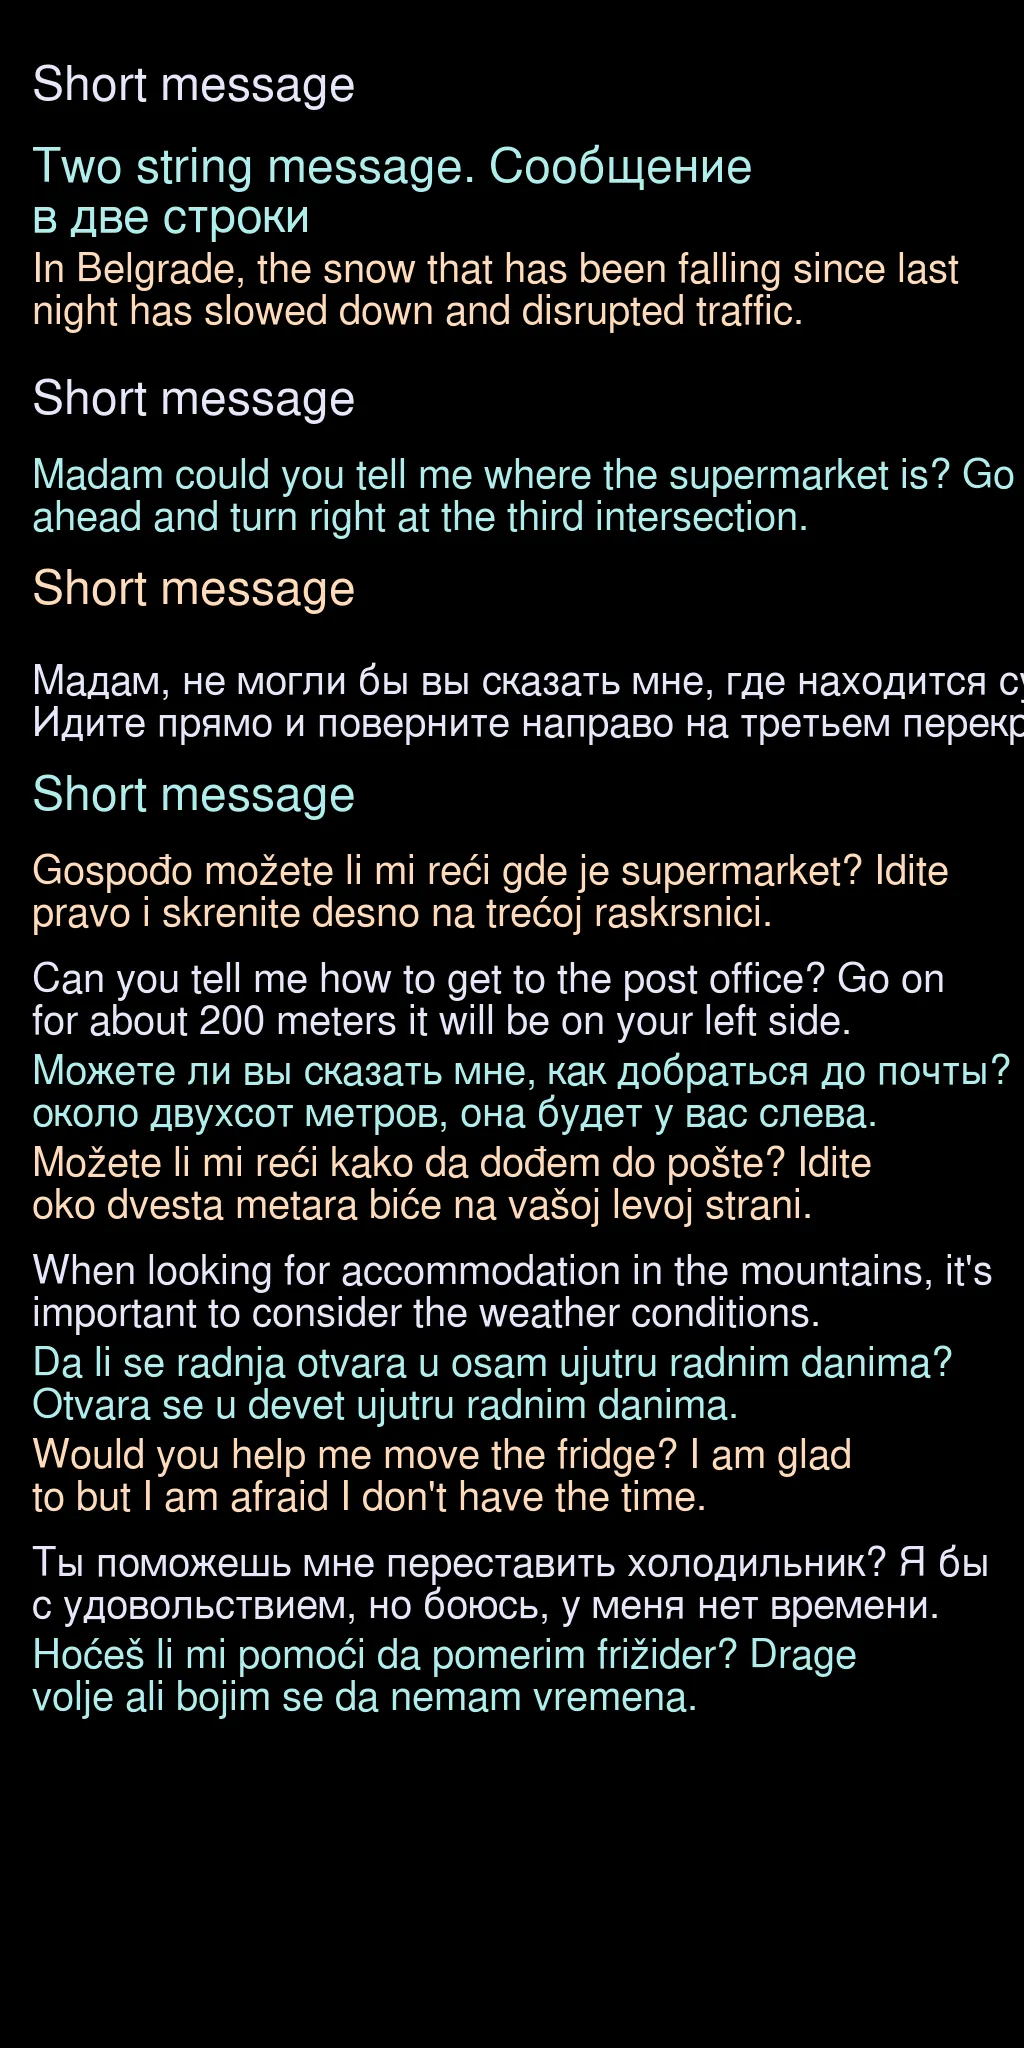
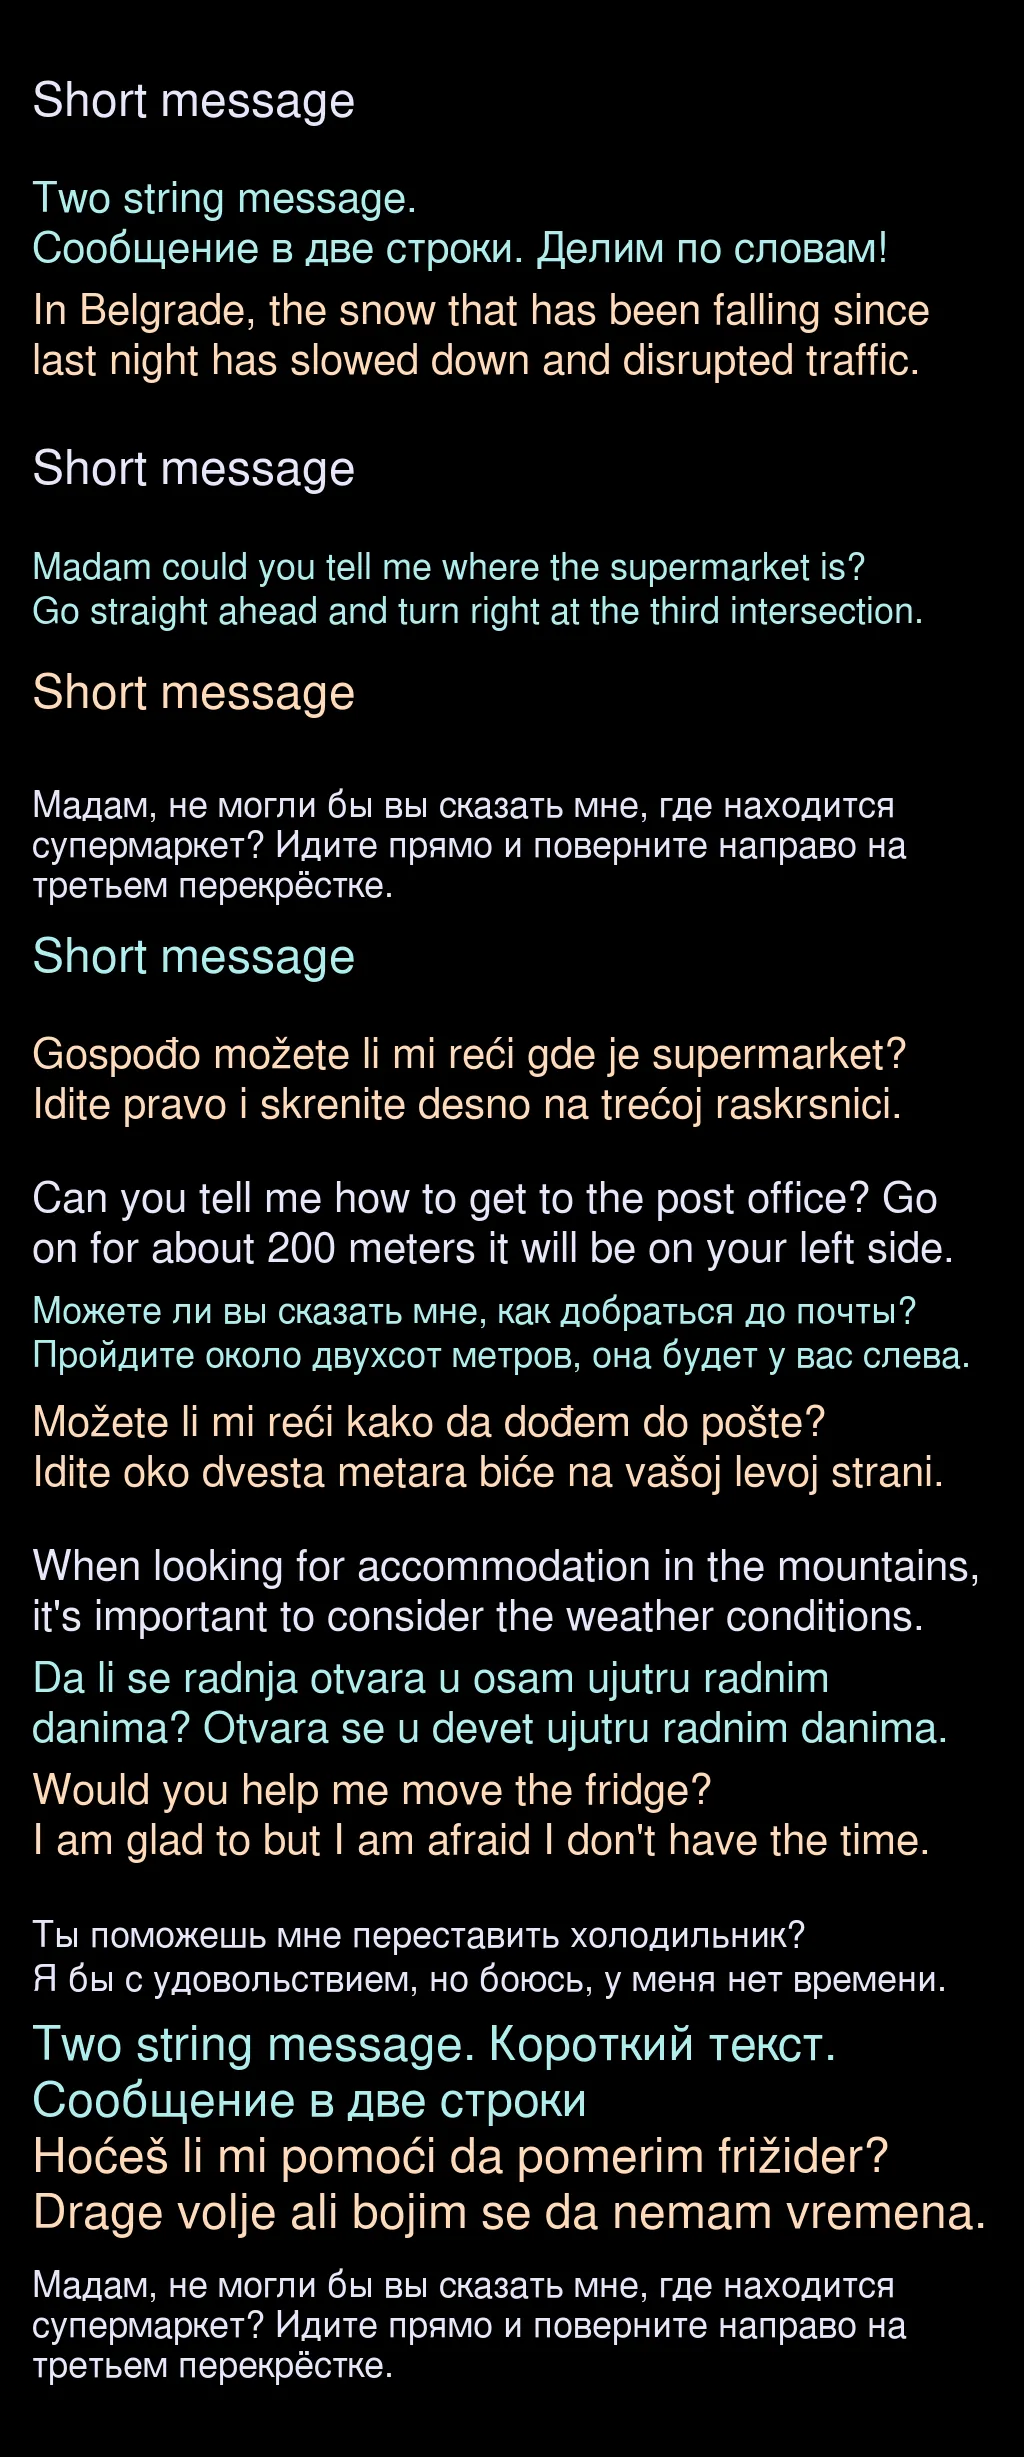
new text splitting

Changed region(s): [[0.0312, 0.0312, 1.0, 0.9688], [0.9375, 0.2188, 1.0, 0.25]]

diff --git a/chat-gpt/language-cards/test-text-sizes.py b/chat-gpt/language-cards/test-text-sizes.py
@@ -1,4 +1,7 @@
 import os
+import re
+
+from functools import cache
 from PIL import Image, ImageFilter, ImageDraw, ImageFont
 
 #https://levelup.gitconnected.com/how-to-properly-calculate-text-size-in-pil-images-17a2cc6f51fd
@@ -11,71 +14,127 @@ def get_text_dimensions(text_string, font):
 
     return (text_width, text_height)
 
-def split_string_into_parts(s, n_parts):
-    if n_parts <= 1:
-        return [s]
+def split_text_into_sentences(text, num_sentences=None):
+    sentences = re.split(r'(?<!\w\.\w.)(?<=\.|\?|!)\s', text)
 
-    # Общая длина строки без учета пробелов для более равномерного деления
-    total_length = len(s.replace(" ", ""))
-    part_length = total_length / n_parts
+    if num_sentences is None or len(sentences) <= num_sentences:
+        return sentences
 
-    parts = []
-    last_index = 0
-    accumulated_length = 0  # Длина накопленных символов без пробелов
+    while len(sentences) > num_sentences:
+        shortest = min(sentences, key=len)
+        index = sentences.index(shortest)
+        if index > 0:
+            sentences[index - 1] += ' ' + sentences.pop(index)
+        elif index < len(sentences) - 1:
+            sentences[index] += ' ' + sentences.pop(index + 1)
+        else:
+            break
 
-    for i in range(1, n_parts):
-        # Планируемая длина для текущей части
-        current_target = part_length * i
+    return sentences
 
-        while accumulated_length < current_target and last_index < len(s):
-            if s[last_index] != " ":
-                accumulated_length += 1
-            last_index += 1
+def if_fits_to_width(text, font, width):
+    text_width, text_height = get_text_dimensions(text, font)
+    return text_width < width
 
-        # Находим ближайший пробел для разделения
-        space_index = s.find(" ", last_index)
-        if space_index == -1:  # Если пробел не найден, используем длину строки
-            space_index = len(s)
+def split_by_two_sentences(text, font, color, width, rows, colors, fonts):
+    sentences = split_text_into_sentences(text, 2)
+    s1, s2 = sentences[0], sentences[1] if len(sentences) == 2 else 0
+    print(sentences)
 
-        # Добавляем часть строки до найденного пробела
-        parts.append(s[:space_index].strip())
-        # Обновляем строку, удаляя добавленную часть
-        s = s[space_index:]
-
-        last_index = 0  # Сбрасываем индекс для новой подстроки
-
-    # Добавляем оставшуюся часть строки
-    parts.append(s.strip())
-
-    return parts
-
-def add_text_properties(text, color, gap, image_width, font_48, rows, gaps, colors, fonts):
-    text_width, text_height = get_text_dimensions(text, font_48)
-    rows_count = text_width / (image_width - 128)
-
-    if rows_count > 2:
-        font_size = 40
-        rows.extend(split_string_into_parts(text, 2))
-        gaps.extend([(gap + 8, font_size + 2), (0, font_size + 2)])
+    if if_fits_to_width(s1, font, width) and if_fits_to_width(s2, font, width):
+        rows.extend([s1, s2])
+        fonts.extend([font, font])
         colors.extend([color, color])
-        fonts.extend([font_size, font_size])
-    elif rows_count > 1:
-        font_size = 48
-        rows.extend(split_string_into_parts(text, 2))
-        gaps.extend([(gap + 8, font_size + 2), (0, font_size + 2)])
+        print(f'2 sentences {font.size}')
+        return True
+
+    return False
+
+def split_on_two_strings_by_words(text, font, color, width, rows, colors, fonts):
+    words = text.split()
+
+    k = 1
+    while k < len(words) and if_fits_to_width(' '.join(words[:k]), font, width) :
+        k += 1
+    k -= 1
+
+    if if_fits_to_width(' '.join(words[k:]), font, width):
+        rows.extend([' '.join(words[:k]), ' '.join(words[k:])])
+        fonts.extend([font, font])
         colors.extend([color, color])
-        fonts.extend([font_size, font_size])
-    else:
-        font_size = 48
+        print(f'2 words {font.size}')
+        return True
+
+    return False
+
+def add_text_properties(text, color, gap, width, rows, gaps, colors, fonts):
+    f36, f42, f48 = get_fonts()
+
+    if if_fits_to_width(text, f48, width):
         rows.extend([text])
-        gaps.extend([(gap + font_size * 0.5, font_size * 1.5 + 2)])
+        gaps.extend([(gap + 24, 48 + 40)])
+        fonts.extend([f48])
         colors.extend([color])
-        fonts.extend([font_size])
+        print('1 all 48')
+        return
 
-def add_text_to_image(output_path, texts, font_path):
+    if split_by_two_sentences(text, f48, color, width, rows, colors, fonts):
+        gaps.extend([(gap + 8, 48), (8, 48)])
+        return
+
+    if split_by_two_sentences(text, f42, color, width, rows, colors, fonts):
+        gaps.extend([(gap + 14, 42), (8, 48)])
+        return
+
+    if split_on_two_strings_by_words(text, f48, color, width, rows, colors, fonts):
+        gaps.extend([(gap + 8, 48), (8, 48)])
+        return
+
+    if split_on_two_strings_by_words(text, f42, color, width, rows, colors, fonts):
+        gaps.extend([(gap + 14, 42), (8, 48)])
+        return
+
+    if split_by_two_sentences(text, f36, color, width, rows, colors, fonts):
+        gaps.extend([(gap + 20, 36), (8, 48)])
+        return
+
+    if split_on_two_strings_by_words(text, f36, color, width, rows, colors, fonts):
+        gaps.extend([(gap + 20, 36), (8, 48)])
+        return
+
+    words = text.split()
+
+    k = 1
+    while k < len(words) and if_fits_to_width(' '.join(words[:k]), f36, width):
+        k += 1
+    k -= 1
+
+    n = k + 1
+    while n < len(words) and if_fits_to_width(' '.join(words[k:n]), f36, width):
+        n += 1
+    n -= 1
+
+    rows.extend([' '.join(words[:k]), ' '.join(words[k:n]), ' '.join(words[n:])])
+    fonts.extend([f36, f36, f36])
+    colors.extend([color, color, color])
+
+    gaps.extend([(gap + 2, 38), (2, 38), (2, 38)])
+
+@cache
+def get_fonts():
+    script_dir = os.path.dirname(os.path.abspath(__file__))
+    font_path = os.path.join(script_dir, 'NimbusSanLRegular.ttf')
+
+    font_36 = ImageFont.truetype(font_path, 36)
+    font_42 = ImageFont.truetype(font_path, 42)
+    font_48 = ImageFont.truetype(font_path, 48)
+
+    return (font_36, font_42, font_48)
+
+def add_text_to_image(output_path, texts):
 
     width = 1024
-    height = int(1024 * 2)
+    height = int(1024 * 2.4)
     new_image = Image.new("RGB", (width, height))
 
     # Initialize the drawing context
@@ -96,9 +155,6 @@ def add_text_to_image(output_path, texts, font_path):
     # Blend this rectangle with the base image
     new_image.paste(rect_image, (0, 0), rect_image)
 
-    font_40 = ImageFont.truetype(font_path, 40)
-    font_48 = ImageFont.truetype(font_path, 48)
-
     text_x = 32
 
     # Инициализация списков
@@ -115,13 +171,14 @@ def add_text_to_image(output_path, texts, font_path):
     text_colors = [lavender, pale_blue, pastel_peach]
 
     for i, text in enumerate(texts):
-        print(f"{text}")
-        add_text_properties(text, text_colors[i % 3], 0 if i % 3 else 16, new_image.width, font_48, rows, gaps, colors, fonts)
+        print('')
+        print(text)
+        add_text_properties(text, text_colors[i % 3], 0 if i % 3 else 32, new_image.width - 64, rows, gaps, colors, fonts)
 
     for i, r in enumerate(rows):
         top, bottom = gaps[i]
         text_y += top
-        draw.text((text_x, text_y), r, fill=colors[i], font=(font_48 if fonts[i] == 48 else font_40))
+        draw.text((text_x, text_y), r, fill=colors[i], font=fonts[i])
         text_y += bottom
 
     # Save the image
@@ -129,12 +186,11 @@ def add_text_to_image(output_path, texts, font_path):
     new_image.save(output_path)
 
 script_dir = os.path.dirname(os.path.abspath(__file__))
-
-font_path = os.path.join(script_dir, 'NimbusSanLRegular.ttf')
+# font_path = os.path.join(script_dir, 'NimbusSanLRegular.ttf')
 
 texts = [
     "Short message",
-    "Two string message. Сообщение в две строки",
+    "Two string message. Сообщение в две строки. Делим по словам!",
     "In Belgrade, the snow that has been falling since last night has slowed down and disrupted traffic.",
     "Short message",
     "Madam could you tell me where the supermarket is? Go straight ahead and turn right at the third intersection.",
@@ -149,11 +205,12 @@ texts = [
     "Da li se radnja otvara u osam ujutru radnim danima? Otvara se u devet ujutru radnim danima.",
     "Would you help me move the fridge? I am glad to but I am afraid I don't have the time.",
     "Ты поможешь мне переставить холодильник? Я бы с удовольствием, но боюсь, у меня нет времени.",
-    "Two string message. Сообщение в две строки",
+    "Two string message. Короткий текст. Сообщение в две строки",
     "Hoćeš li mi pomoći da pomerim frižider? Drage volje ali bojim se da nemam vremena.",
+    "Мадам, не могли бы вы сказать мне, где находится супермаркет? Идите прямо и поверните направо на третьем перекрёстке.",
 ]
 
 release_folder = os.path.join(script_dir)
 output_path = release_folder + '/test-text-sizes.webp'
 
-add_text_to_image(output_path, texts, font_path)
+add_text_to_image(output_path, texts)
